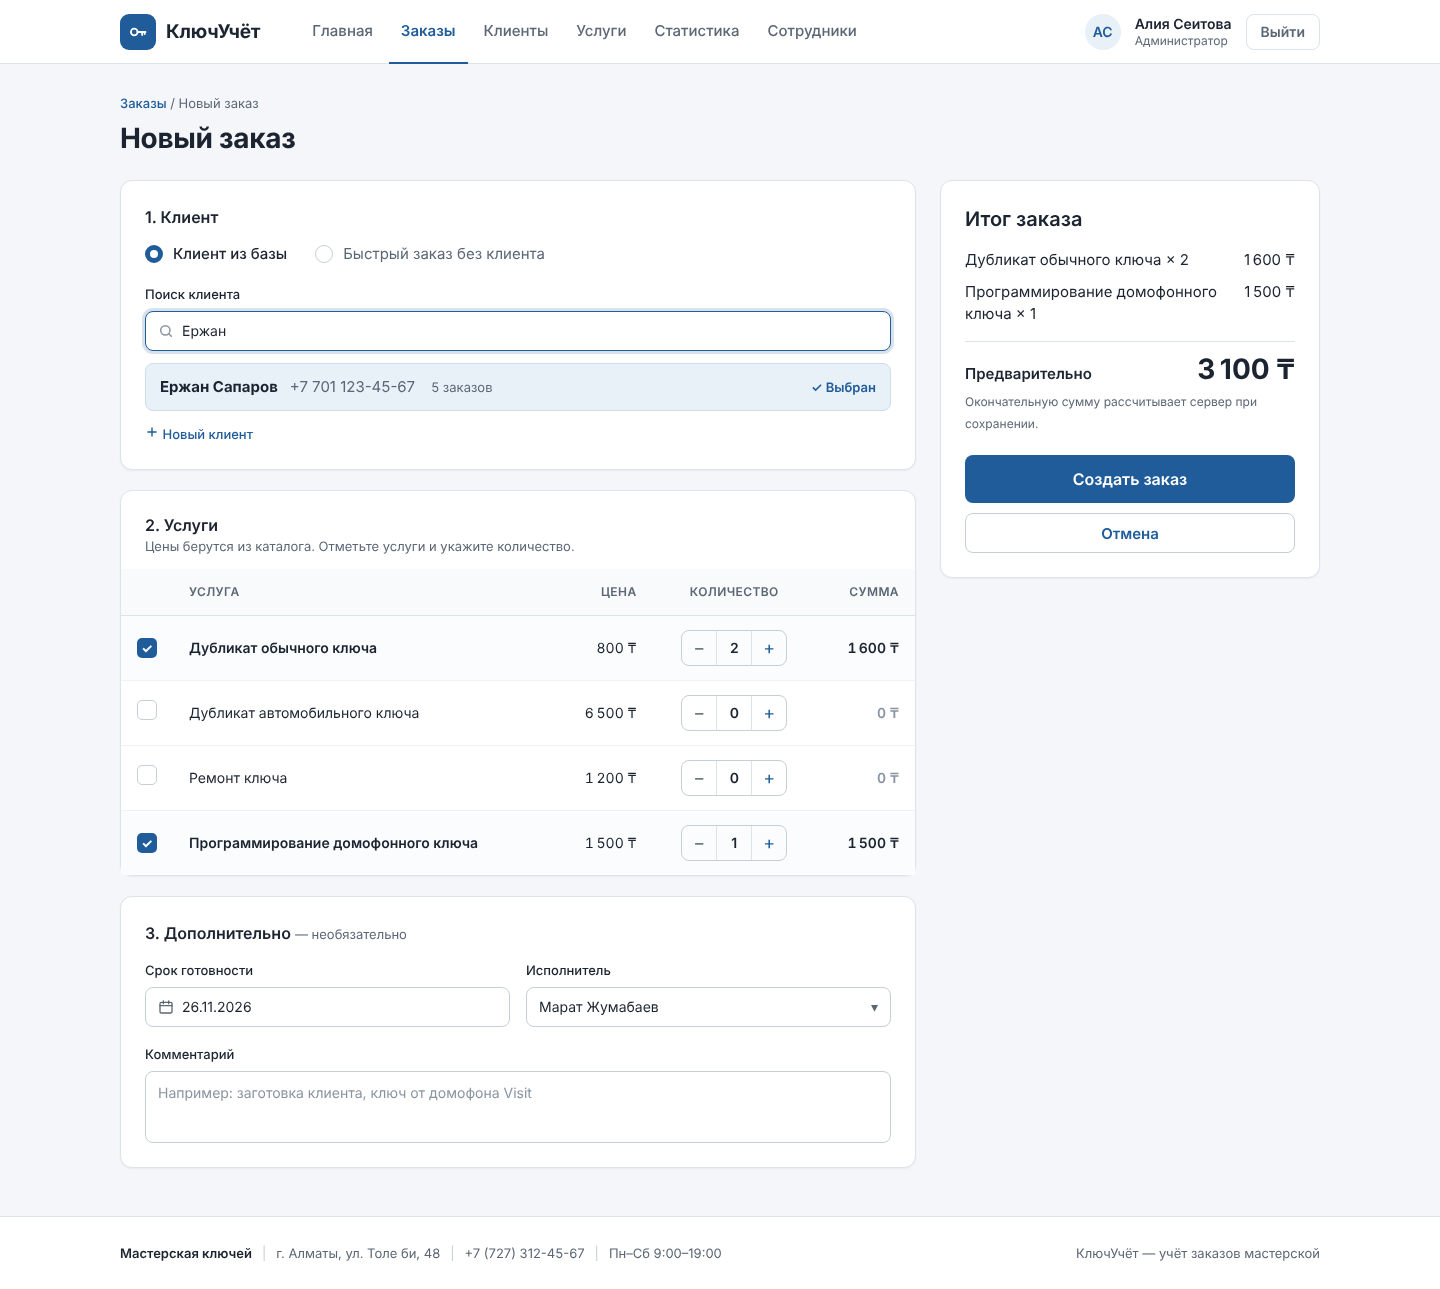
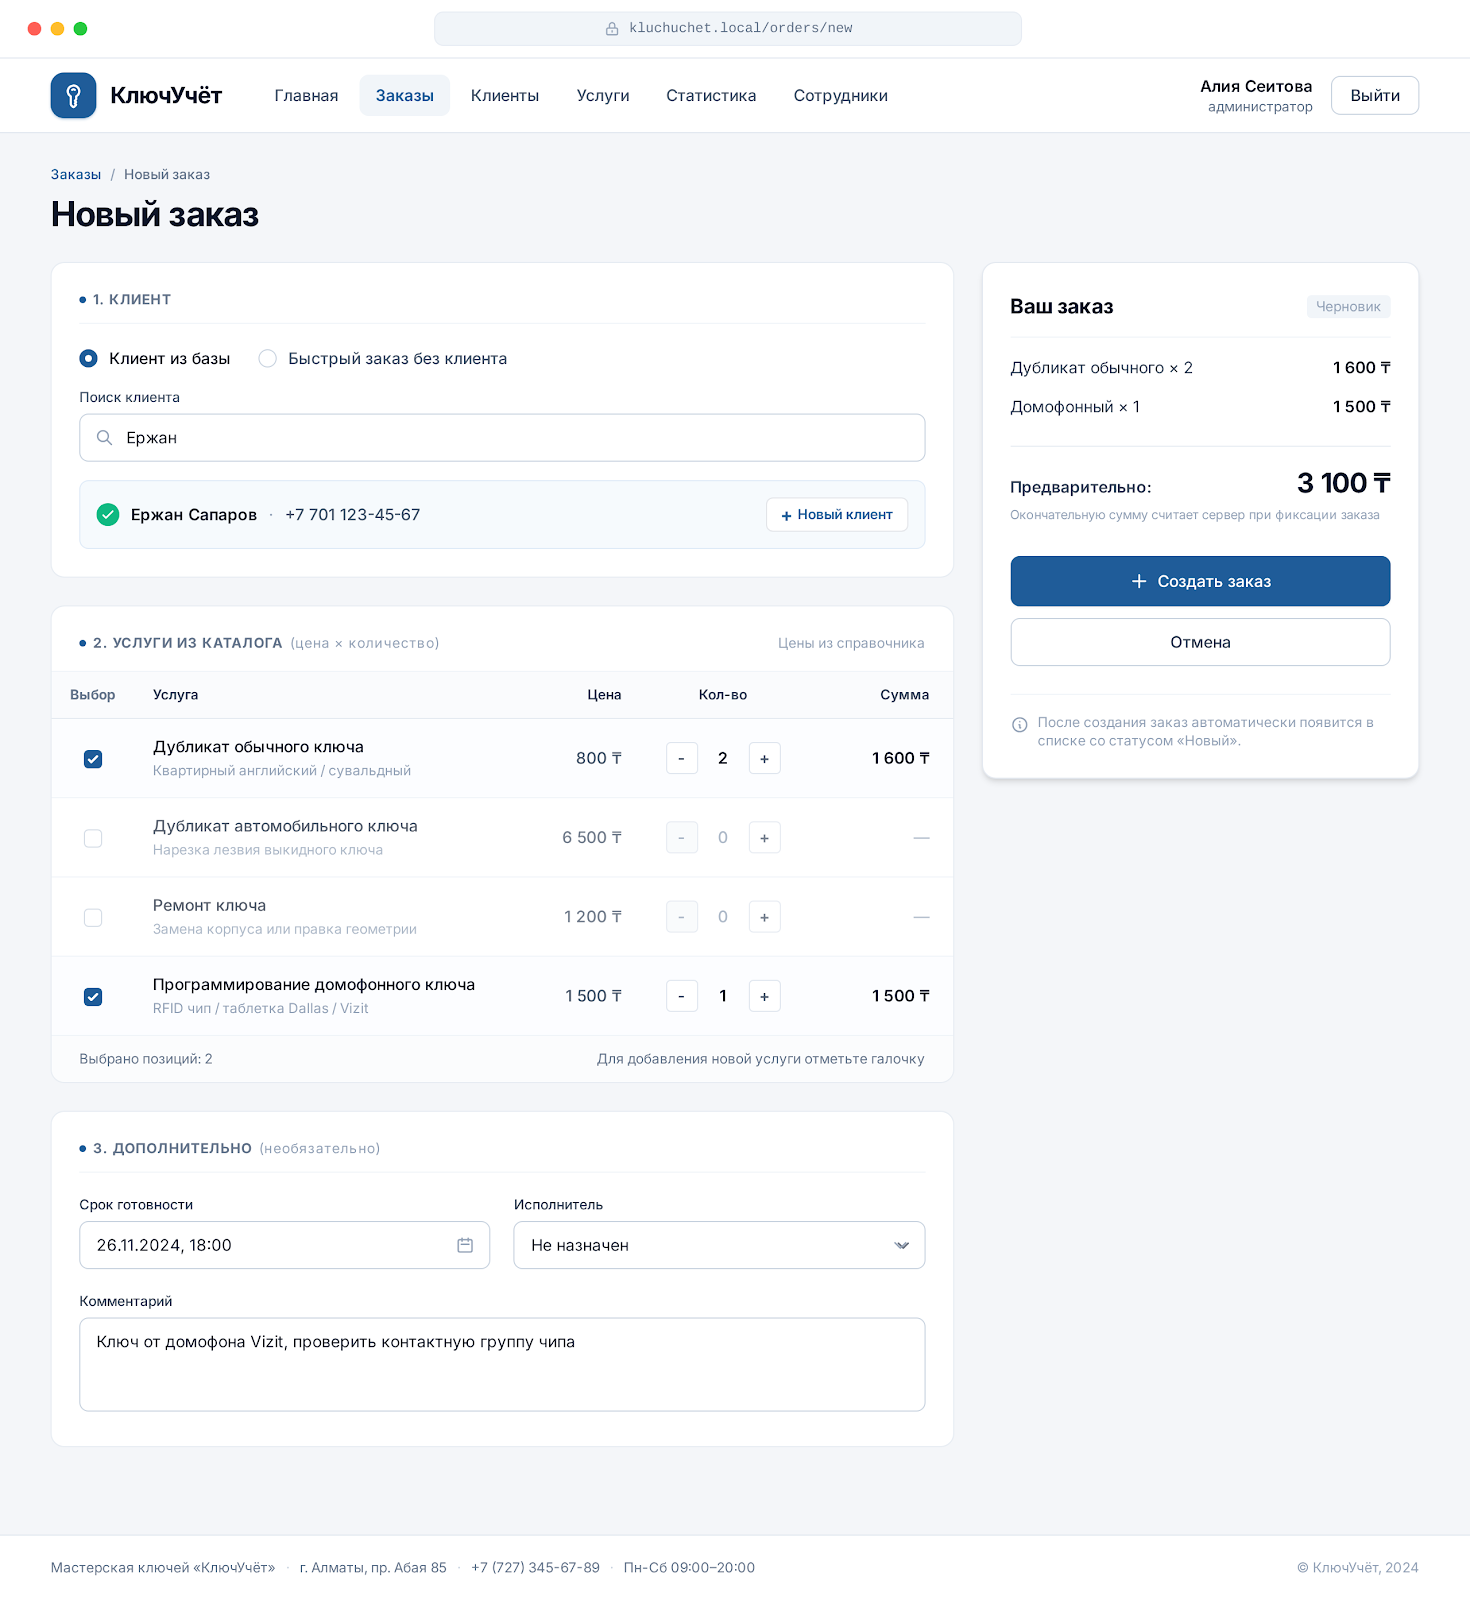
design: screens from Google Stitch
Claude-Session: https://claude.ai/code/session_01LYx9XDw7J7b9mwqPre7aFx

diff --git a/docs/design.md b/docs/design.md
@@ -39,8 +39,8 @@
 | Название | HEX | Где используется |
 |---|---|---|
 | Главный (primary) | `#1F5C99` | Главная кнопка, активный пункт меню, ссылки, выбранные чекбоксы |
-| Главный при наведении | `#184B7E` | Главная кнопка при наведении и нажатии |
-| Главный светлый | `#E8F0F8` | Выбранный клиент, блок «Только для администратора», аватар |
+| Главный при наведении | `#174776` | Главная кнопка при наведении и нажатии |
+| Главный светлый | `#F0F6FC` | Фон активного пункта меню, выбранный клиент, выбранный период |
 | Фон страницы | `#F4F6F9` | Фон под карточками |
 | Поверхность | `#FFFFFF` | Карточки, шапка, подвал, поля ввода |
 | Граница | `#DCE3EB` | Рамки карточек, линии в таблицах |
@@ -150,7 +150,7 @@
 
 ## 10. Шапка и подвал
 
-**Шапка** (одинаковая на всех страницах после входа): белая, высота 64 px, нижняя граница `#DCE3EB`. Слева логотип — синий квадрат 36 px со значком ключа и надпись «КлючУчёт» (19 px, 700). Дальше меню: Главная, Заказы, Клиенты, Услуги, Статистика, Сотрудники. Пункты «Статистика» и «Сотрудники» видит только администратор. Активный пункт — синий текст и синяя линия 2 px снизу. Справа — аватар с инициалами, имя, роль и кнопка «Выйти».
+**Шапка** (одинаковая на всех страницах после входа): белая, высота 64 px, нижняя граница `#DCE3EB`. Слева логотип — синий квадрат 44 px со скруглением 10 px и белым значком ключа и надпись «КлючУчёт» (19 px, 700). Дальше меню: Главная, Заказы, Клиенты, Услуги, Статистика, Сотрудники. Пункты «Статистика» и «Сотрудники» видит только администратор. Активный пункт — синий текст `#1F5C99` на светло-синей «таблетке» `#F0F6FC` со скруглением 8 px. Справа — имя, роль и кнопка «Выйти».
 
 **Подвал**: белый, высота 72 px, верхняя граница `#DCE3EB`, текст 13 px. Слева: «Мастерская ключей | адрес | телефон | режим работы», справа: «КлючУчёт — учёт заказов мастерской».
 
